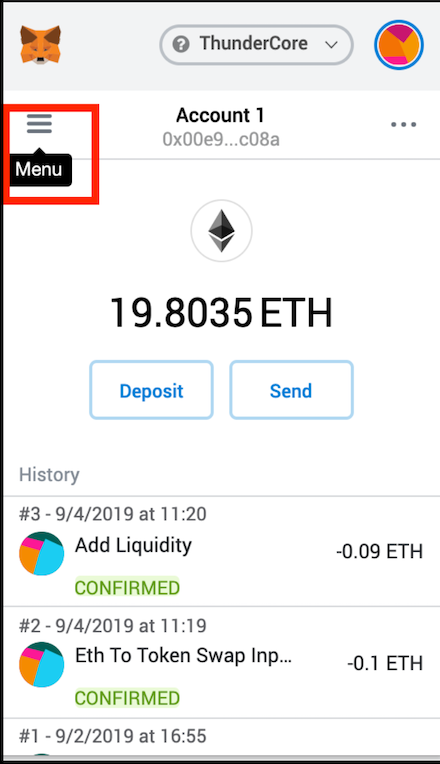
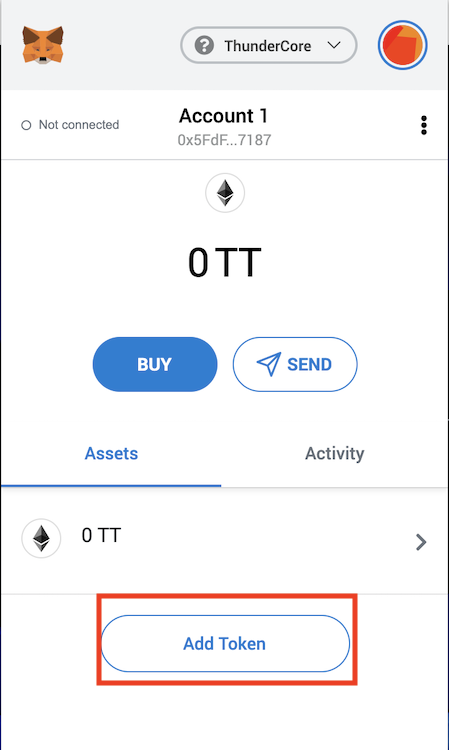
Updated Metamask Tutorial Images of DAI to SAI. Also corrected wording on Trustwallet-SAI Tutorial.

diff --git a/docs-en/stblecoin-metamask.md b/docs-en/stblecoin-metamask.md
@@ -46,26 +46,22 @@ Here’s a guide to show you how to add TT20-USDT or TT20-SAI to your MetaMask. 
 
 ![alt-text](assets/img/stablecoin-metamask/stablecoin-metamask-8.png)
 
-2. Click Menu
+2. Click Add Token 
 
 ![alt-text](assets/img/stablecoin-metamask/stablecoin-metamask-9.png)
 
-3. Click Add Token 
+3. Select Custom Token in the tab
 
 ![alt-text](assets/img/stablecoin-metamask/stablecoin-metamask-10.png)
 
-4. Select Custom Token in the tab
+4. Copy `0x2b31e3b88847f03c1335E99A0d1274A2c72059DE` to the Token Contract Address and then the other blanks will be filled in automatically. Press Next to proceed
 
 ![alt-text](assets/img/stablecoin-metamask/stablecoin-metamask-11.png)
 
-5. Copy `0x2b31e3b88847f03c1335E99A0d1274A2c72059DE` to the Token Contract Address and then the other blanks will be filled in automatically. Press Next to proceed
+5. Press Add Tokens to proceed
 
 ![alt-text](assets/img/stablecoin-metamask/stablecoin-metamask-12.png)
 
-6. Press Add Tokens to proceed
+6. Then you will see TT20-SAI listed on your MetaMask
 
 ![alt-text](assets/img/stablecoin-metamask/stablecoin-metamask-13.png)
-
-7. Then you will see TT20-SAI listed on your MetaMask
-
-![alt-text](assets/img/stablecoin-metamask/stablecoin-metamask-14.png)

diff --git a/docs-cn/stblecoin-metamask.md b/docs-cn/stblecoin-metamask.md
@@ -46,26 +46,22 @@ title: 将 TT-稳定币添加到 MetaMask
 
 ![alt-text](assets/img/stablecoin-metamask/stablecoin-metamask-8.png)
 
-2. 点击菜单
+2. 点击添加代币
 
 ![alt-text](assets/img/stablecoin-metamask/stablecoin-metamask-9.png)
 
-3. 点击添加代币
+3. 在标签中选择自定义代币
 
 ![alt-text](assets/img/stablecoin-metamask/stablecoin-metamask-10.png)
 
-4. 在标签中选择自定义代币
+4. 将 `0x2b31e3b88847f03c1335E99A0d1274A2c72059DE` 复制到代币合约地址，其他空白栏位将自动填入，按下一步继续
 
 ![alt-text](assets/img/stablecoin-metamask/stablecoin-metamask-11.png)
 
-5. 将 `0x2b31e3b88847f03c1335E99A0d1274A2c72059DE` 复制到代币合约地址，其他空白栏位将自动填入，按下一步继续
+5. 按添加代币继续
 
 ![alt-text](assets/img/stablecoin-metamask/stablecoin-metamask-12.png)
 
-6. 按添加代币继续
+6. 然后，您将看到 TT-SAI 列在您的 MetaMask 中
 
 ![alt-text](assets/img/stablecoin-metamask/stablecoin-metamask-13.png)
-
-7. 然后，您将看到 TT-SAI 列在您的 MetaMask 中
-
-![alt-text](assets/img/stablecoin-metamask/stablecoin-metamask-14.png)

diff --git a/docs-cn/stblecoin-trustwallet.md b/docs-cn/stblecoin-trustwallet.md
@@ -62,7 +62,7 @@ Item | Field
 
 Item | Field
 ----- | -----
-**Name** | USDT
+**Name** | TT-SAI
 **Symbol** | TT-SAI
 **Decimals** | 18
 

diff --git a/docs-en/stblecoin-trustwallet.md b/docs-en/stblecoin-trustwallet.md
@@ -60,7 +60,7 @@ Item | Field
 
 Item | Field
 ----- | -----
-**Name** | SAI
+**Name** | TT-SAI
 **Symbol** | TT-SAI
 **Decimals** | 18
 
